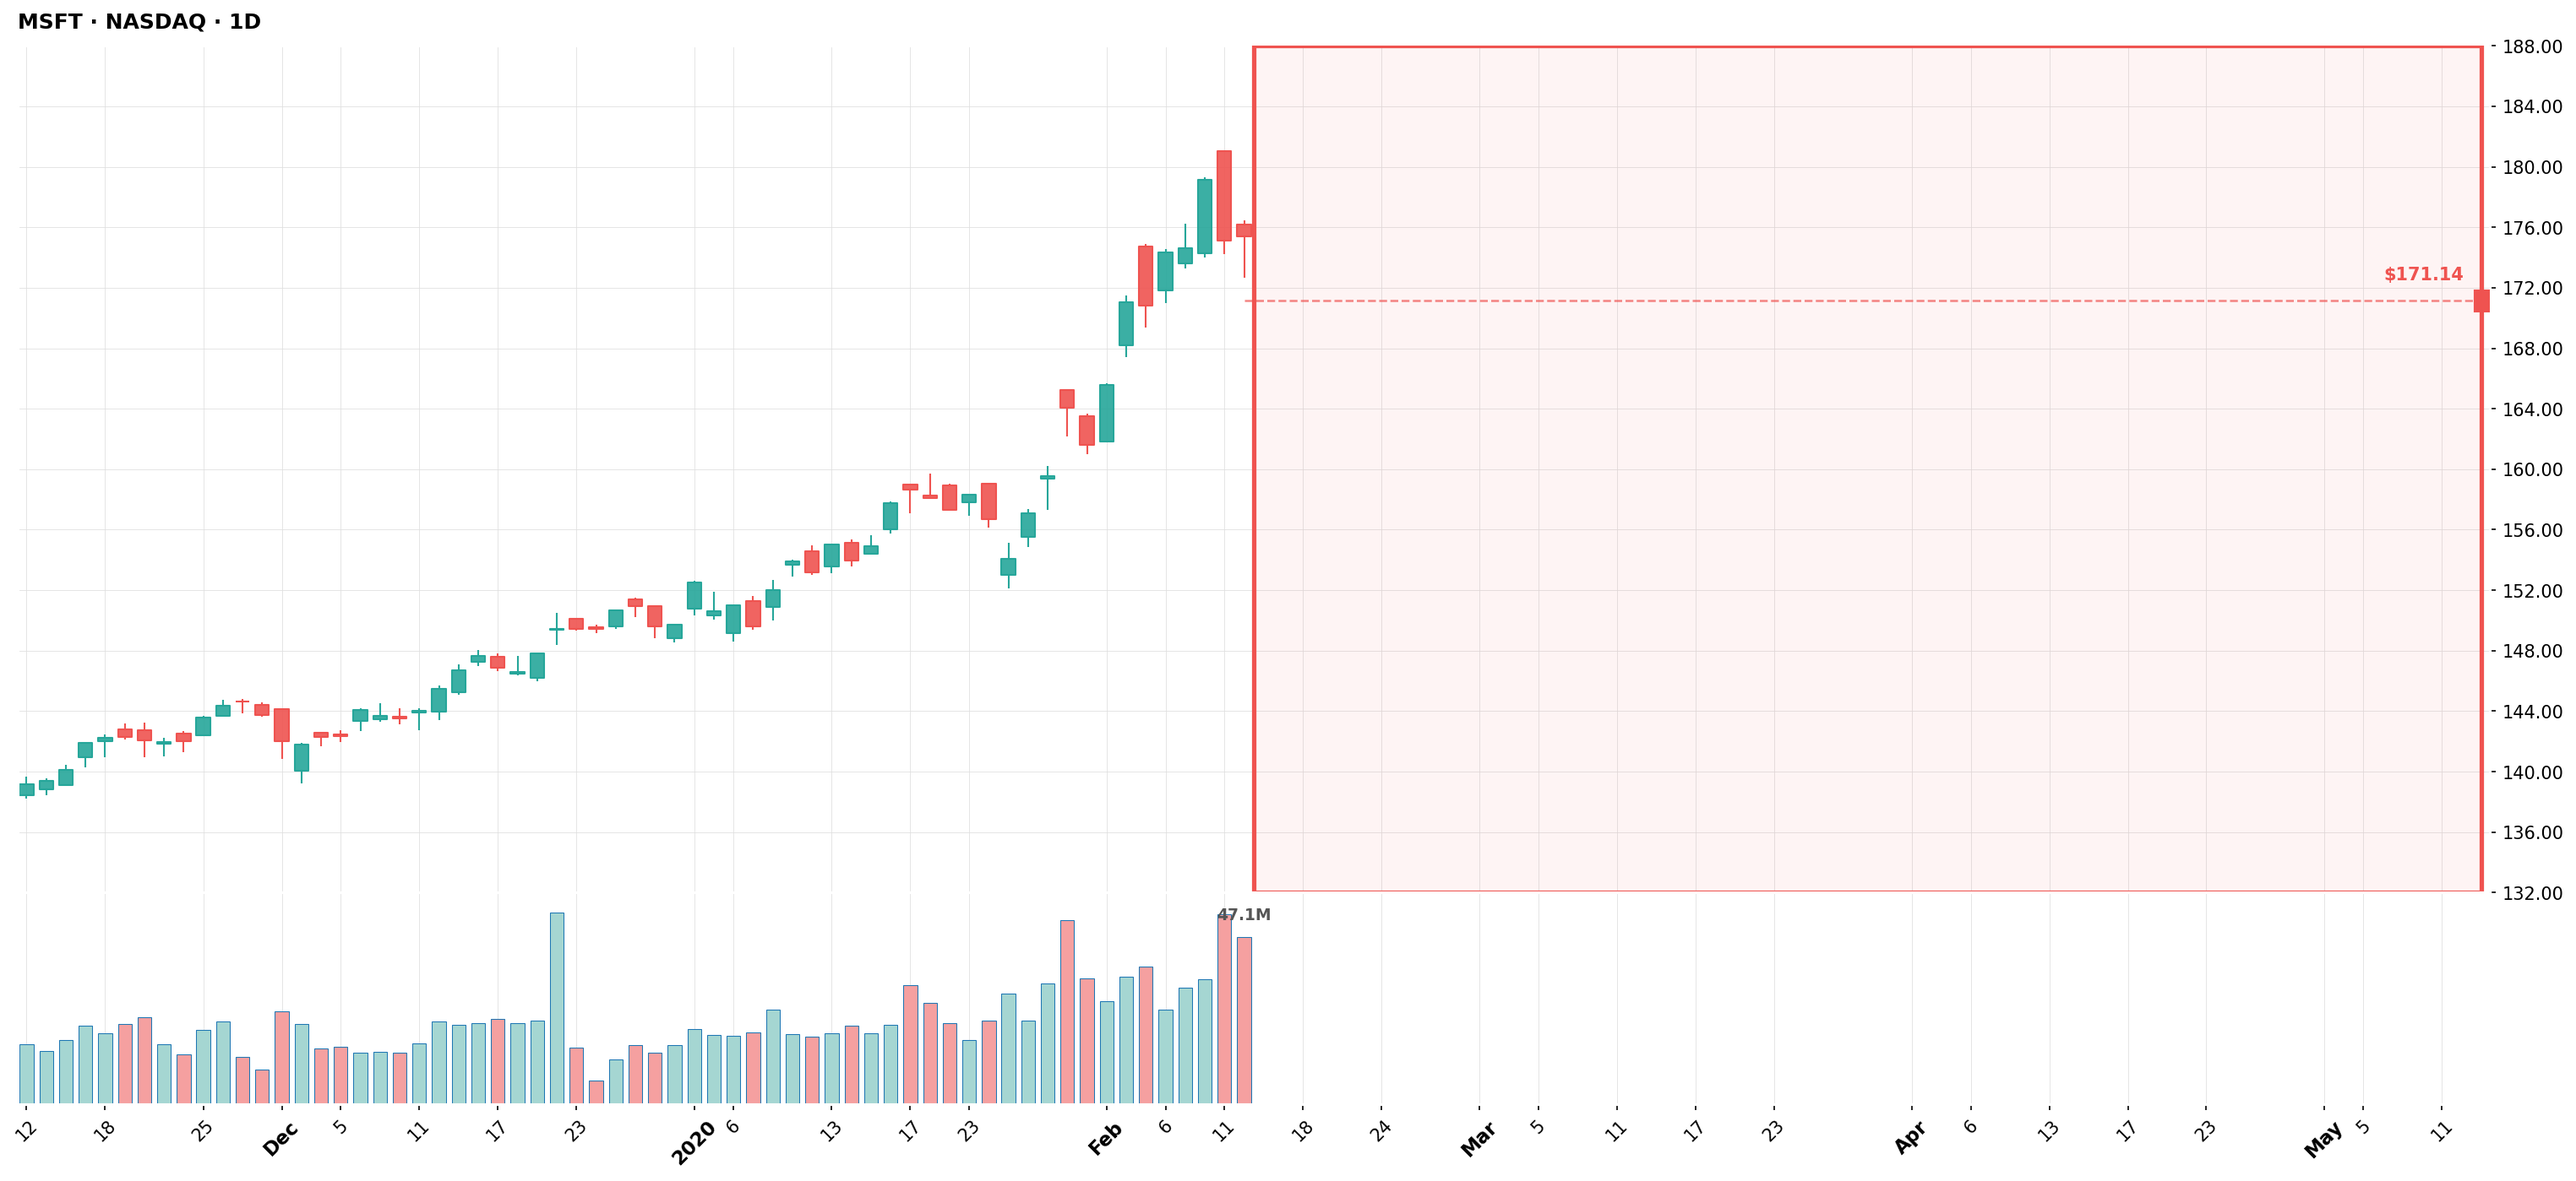
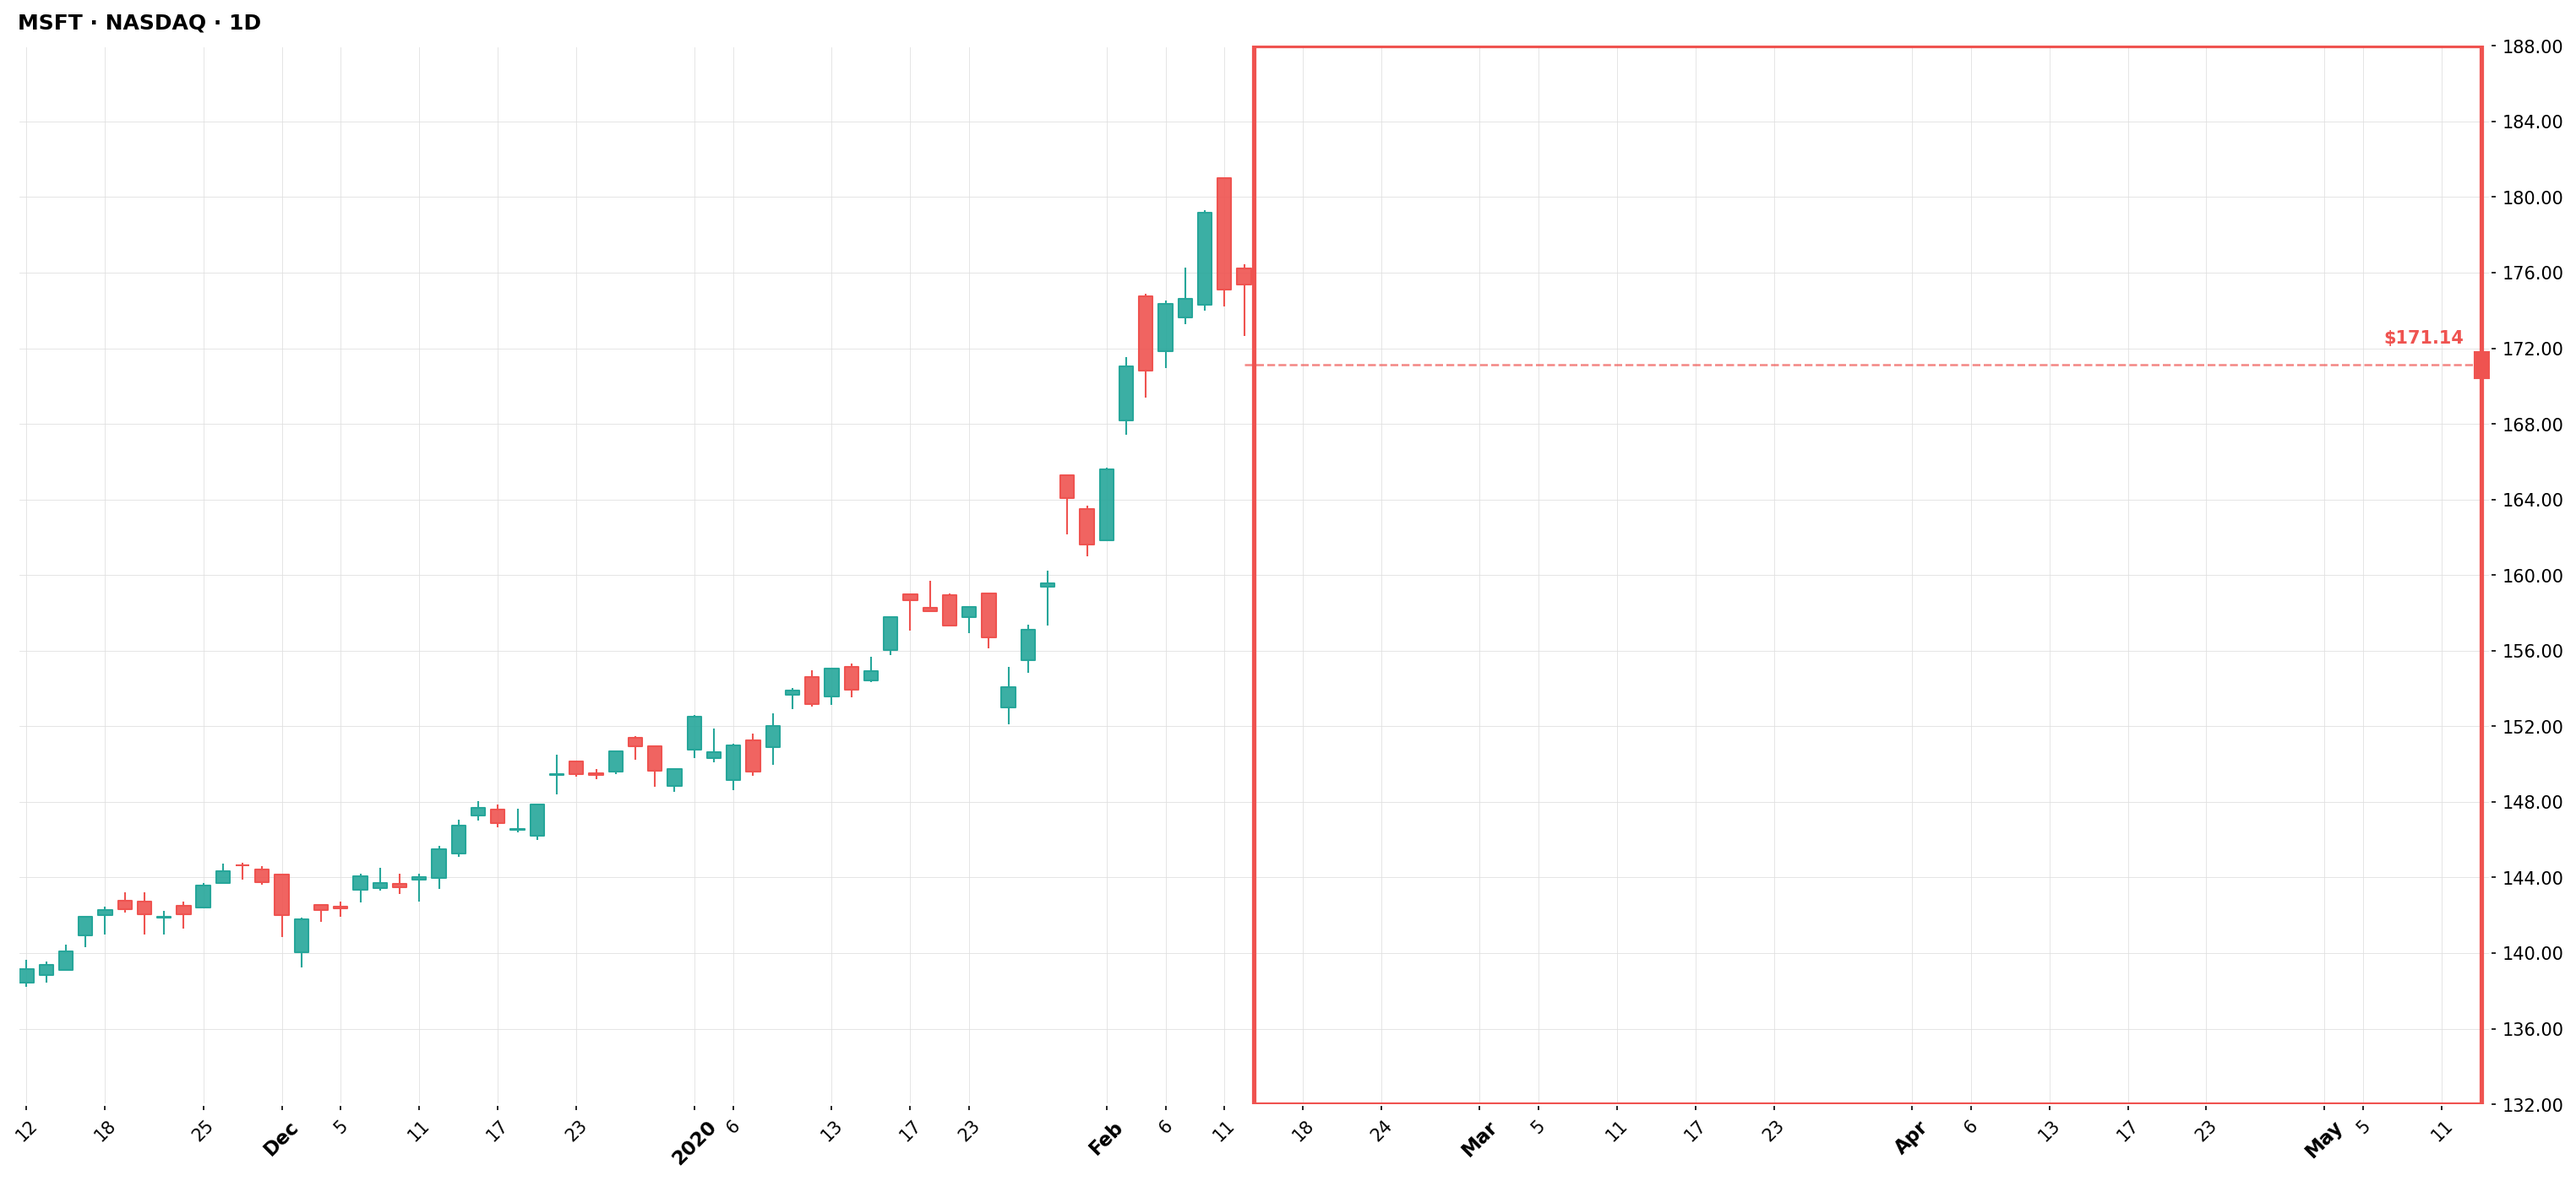
chart_prediction: 차트 코드 정리 + test 프롬프트 v1로 통합
- generate_candle_chart.py: volume 패널 제거, 빨간 사각형 fill 제거 (테두리만)
- data/input/*.png 20개 재생성 (volume 제거된 새 차트로)
- test 프롬프트 v4~v7 → v1으로 통합, 옛 test.txt(v3 잔재) 삭제
- v1에 텍스트 출력 금지 항목(9번) 추가 — 챗봇 commentary 억제
- 공유 위치(chart_prediction/prompts/test/) 도입, daeyun과 동일 내용
- CHANGELOG.md 삭제
- daeyun/output/chatbot/image.png: v1 첫 챗봇 검증 출력

diff --git a/chart_prediction/scripts/generate_candle_chart.py b/chart_prediction/scripts/generate_candle_chart.py
@@ -101,26 +101,21 @@ def generate_chart(ohlcv: pd.DataFrame, ticker: str, suffix: str, title: str = "
         print(f"  [SKIP] {ticker} - no data")
         return
 
-    # 캔들/볼륨 너비 설정 (트레이딩뷰처럼 넓게)
+    # 캔들 너비 설정 (트레이딩뷰처럼 넓게)
     candle_width = 0.7
-    volume_width = 0.7
 
     kwargs = dict(
         type="candle",
         style=tv_style,
-        volume=True,
+        volume=False,
         ylabel="",
-        ylabel_lower="",
         figsize=(20, 9),
         tight_layout=True,
         returnfig=True,
-        panel_ratios=(4, 1),
         scale_padding={"left": 0.05, "top": 0.6, "right": 0.8, "bottom": 0.5},
         update_width_config=dict(
             candle_linewidth=1.0,
             candle_width=candle_width,
-            volume_linewidth=0.5,
-            volume_width=volume_width,
         ),
     )
     if ylim is not None:
@@ -165,14 +160,13 @@ def generate_chart(ohlcv: pd.DataFrame, ticker: str, suffix: str, title: str = "
                 tick_labels.append((str(d.day), False))  # False = normal
         prev_month = d.month
 
-    # x축 적용 (캔들 & 볼륨 패널 모두)
-    for a in [axes[0], axes[2]]:  # axes[0]=candle, axes[2]=volume
-        a.set_xticks(tick_positions)
-        labels_obj = a.set_xticklabels([t[0] for t in tick_labels], fontsize=10)
-        for lbl, (_, is_bold) in zip(labels_obj, tick_labels):
-            if is_bold:
-                lbl.set_fontweight("bold")
-                lbl.set_fontsize(11)
+    # x축 적용
+    ax.set_xticks(tick_positions)
+    labels_obj = ax.set_xticklabels([t[0] for t in tick_labels], fontsize=10)
+    for lbl, (_, is_bold) in zip(labels_obj, tick_labels):
+        if is_bold:
+            lbl.set_fontweight("bold")
+            lbl.set_fontsize(11)
 
     # ── Y축: 트레이딩뷰처럼 ~17틱 목표, nice number 간격 ──
     price_lo, price_hi = ax.get_ylim()
@@ -207,15 +201,8 @@ def generate_chart(ohlcv: pd.DataFrame, ticker: str, suffix: str, title: str = "
         valid_mask = ohlcv['Close'].notna()
         split_x = valid_mask.sum() - 1  # 마지막 유효 캔들 위치
 
-        # ── 1) 예측 영역 빨간 사각형 테두리 ──
+        # ── 1) 예측 영역 빨간 사각형 테두리 (마지막 캔들 바로 옆) ──
         y_lo, y_hi = ax.get_ylim()
-        rect = Rectangle(
-            (split_x + 0.5, y_lo), last_x - split_x - 0.5, y_hi - y_lo,
-            linewidth=2.5, edgecolor="#ef5350", facecolor="#ef5350",
-            alpha=0.06, linestyle="-", zorder=3,
-        )
-        ax.add_patch(rect)
-        # 테두리만 한 번 더 (배경 없이, 선명하게)
         rect_border = Rectangle(
             (split_x + 0.5, y_lo), last_x - split_x - 0.5, y_hi - y_lo,
             linewidth=2.5, edgecolor="#ef5350", facecolor="none",
@@ -249,34 +236,6 @@ def generate_chart(ohlcv: pd.DataFrame, ticker: str, suffix: str, title: str = "
             xytext=(-10, 12), textcoords="offset points",
             fontsize=10, fontweight="bold", color="#ef5350",
             ha="right",
-        )
-
-    # ── 거래량 Y축 숨기기 (마지막 바 위에 값 표시하므로 불필요) ──
-    vol_ax = axes[2]  # 볼륨 패널
-    vol_ax.yaxis.set_ticks([])
-    vol_ax.yaxis.set_ticklabels([])
-    vol_ax.set_ylabel("")  # "Volume 10^6" 라벨 제거
-    vol_series = ohlcv["Volume"].dropna()
-    if len(vol_series) > 0:
-        last_vol_idx = vol_series.index[-1]
-        last_vol = vol_series.iloc[-1]
-        last_vol_x = ohlcv.index.get_loc(last_vol_idx)
-        # 읽기 쉬운 형식으로 변환
-        if last_vol >= 1e9:
-            vol_label = f"{last_vol / 1e9:.1f}B"
-        elif last_vol >= 1e6:
-            vol_label = f"{last_vol / 1e6:.1f}M"
-        elif last_vol >= 1e3:
-            vol_label = f"{last_vol / 1e3:.0f}K"
-        else:
-            vol_label = f"{last_vol:.0f}"
-        # 마지막 바 위에 값 표시
-        vol_ax.annotate(
-            vol_label,
-            xy=(last_vol_x, last_vol),
-            xytext=(0, 8), textcoords="offset points",
-            fontsize=9, fontweight="bold", color="#555555",
-            ha="center", va="bottom",
         )
 
     fname = f"{ticker}_{suffix}.png"
